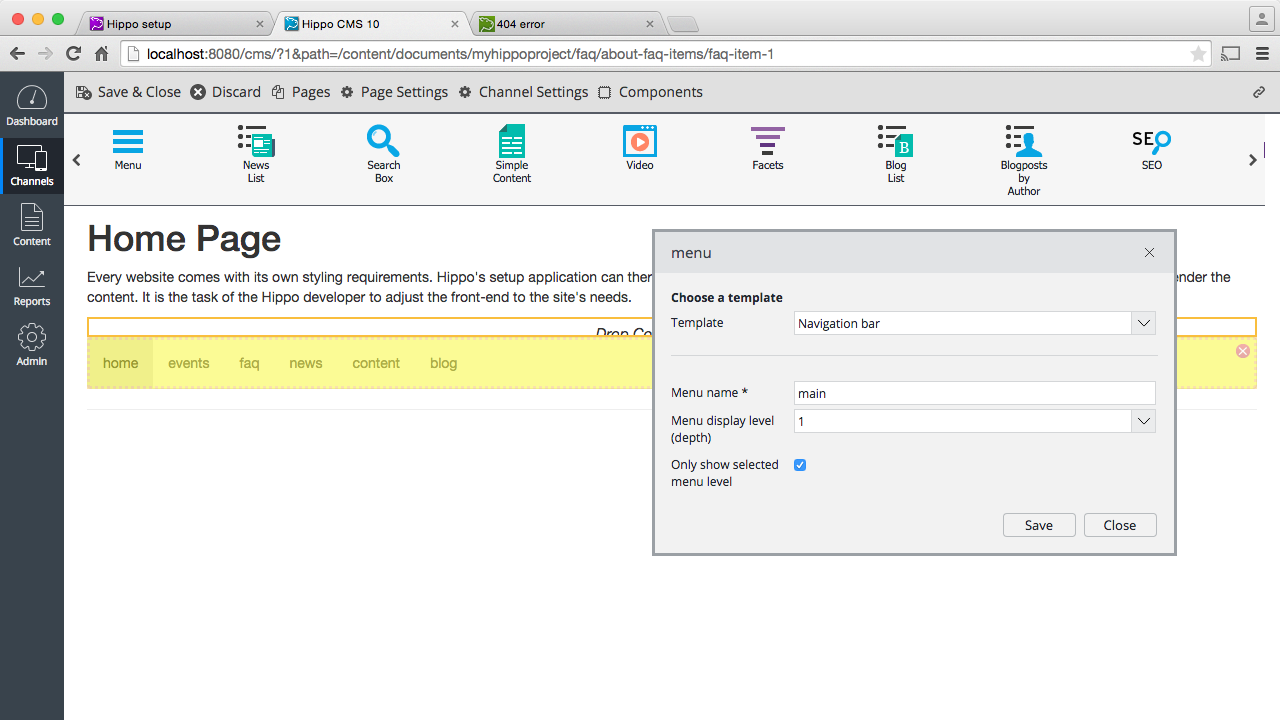
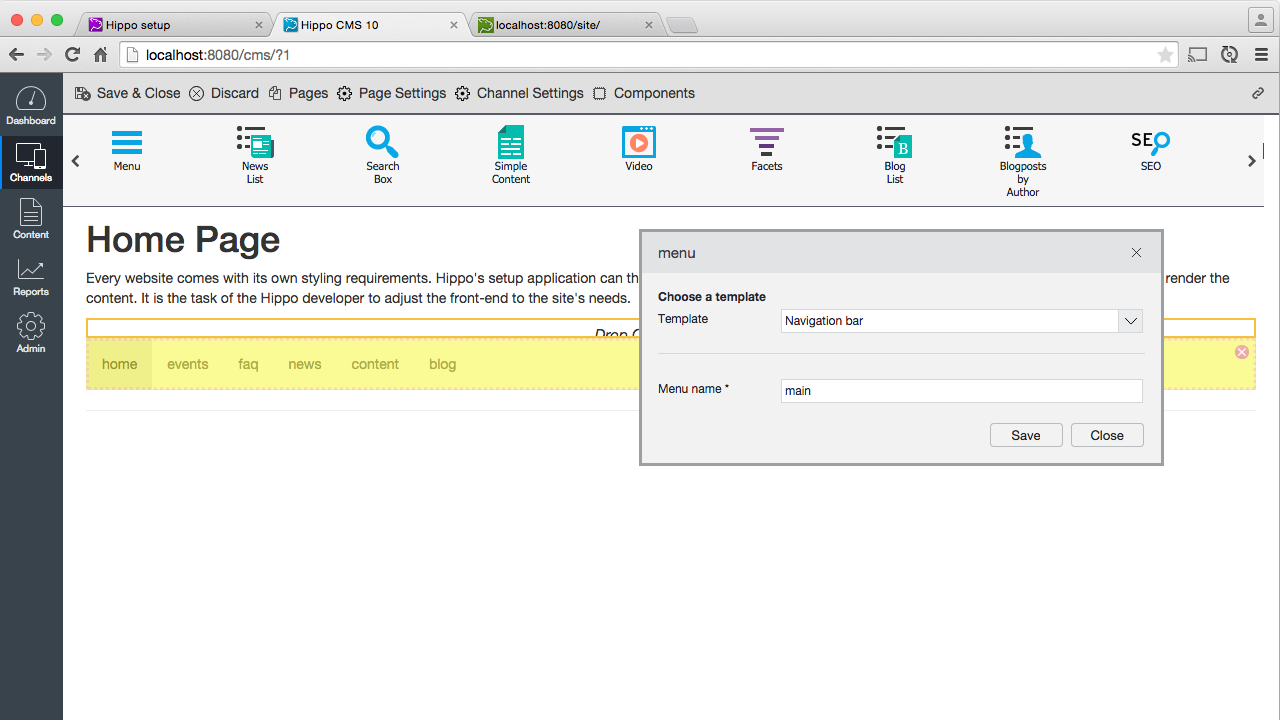
ESSENTIALS-703: Remove unused component parameters and update library screenshot.

diff --git a/essentials/components/hst/src/main/java/org/onehippo/cms7/essentials/components/info/EssentialsMenuComponentInfo.java b/essentials/components/hst/src/main/java/org/onehippo/cms7/essentials/components/info/EssentialsMenuComponentInfo.java
@@ -1,5 +1,5 @@
 /*
- * Copyright 2014 Hippo B.V. (http://www.onehippo.com)
+ * Copyright 2014-2015 Hippo B.V. (http://www.onehippo.com)
  *
  * Licensed under the Apache License, Version 2.0 (the "License");
  * you may not use this file except in compliance with the License.
@@ -16,7 +16,6 @@
 
 package org.onehippo.cms7.essentials.components.info;
 
-import org.hippoecm.hst.core.parameters.DropDownList;
 import org.hippoecm.hst.core.parameters.Parameter;
 
 /**
@@ -24,20 +23,6 @@ import org.hippoecm.hst.core.parameters.Parameter;
  */
 public interface EssentialsMenuComponentInfo {
 
-
     @Parameter(name = "menu", required = true, displayName = "Menu name")
     String getSiteMenu();
-
-    @Parameter(name = "level", required = false, defaultValue = "1", displayName = "Menu display level (depth)", description = "How many menu levels will be displayed")
-    @DropDownList(value = {"1", "2", "3"})
-    String getLevel();
-
-    /**
-     * When multi menu levels are shown, do we show only selected menu item and it's children items or all of them
-     *
-     * @return true by default
-     */
-    @Parameter(name = "selectedMenu", required = false, defaultValue = "true", displayName = "Only show selected menu level")
-    Boolean getShowOnlySelectedLevel();
-
 }
